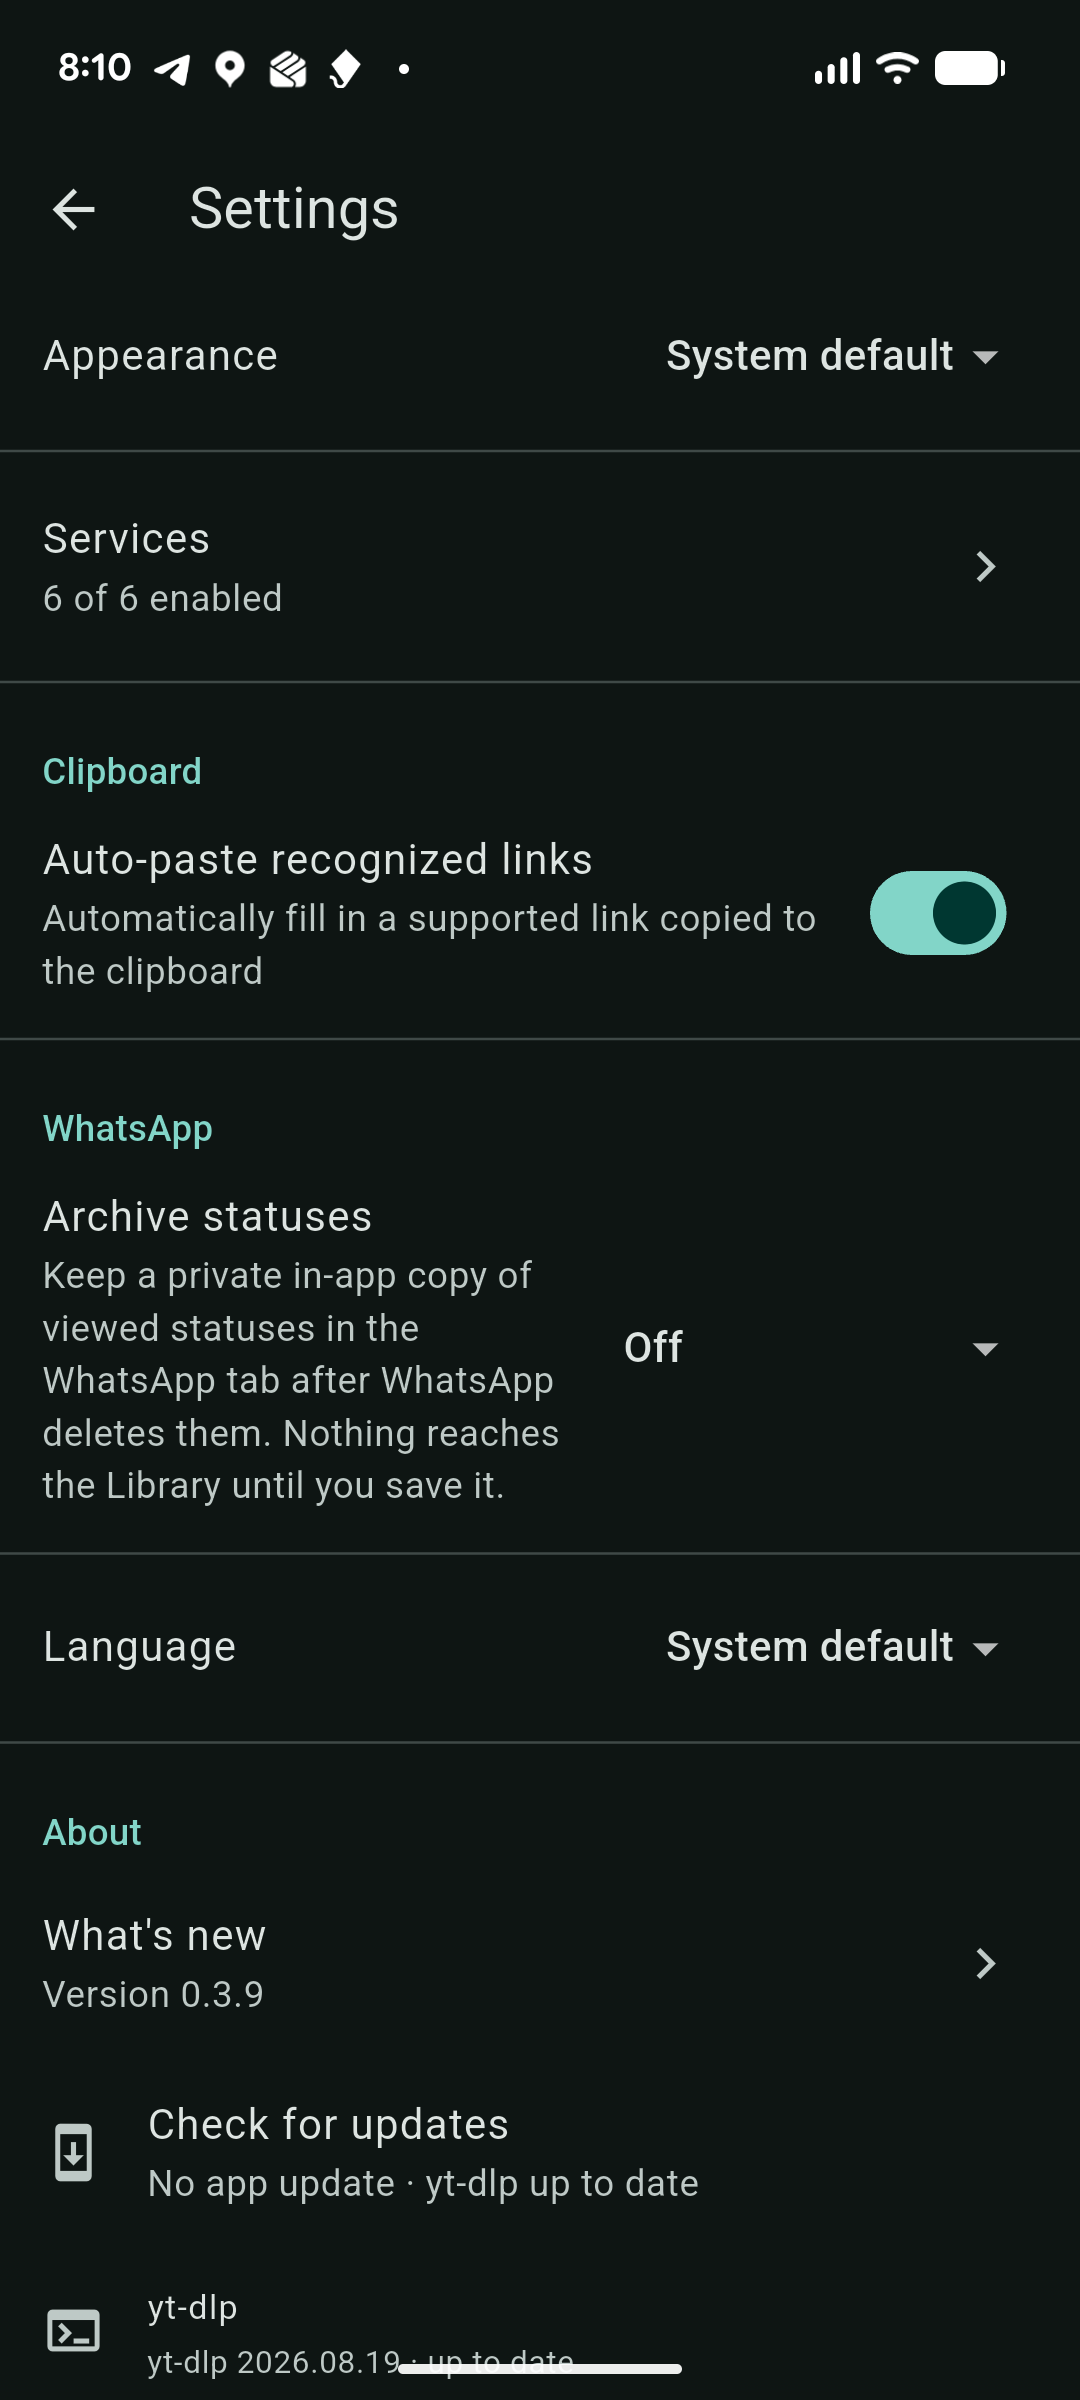
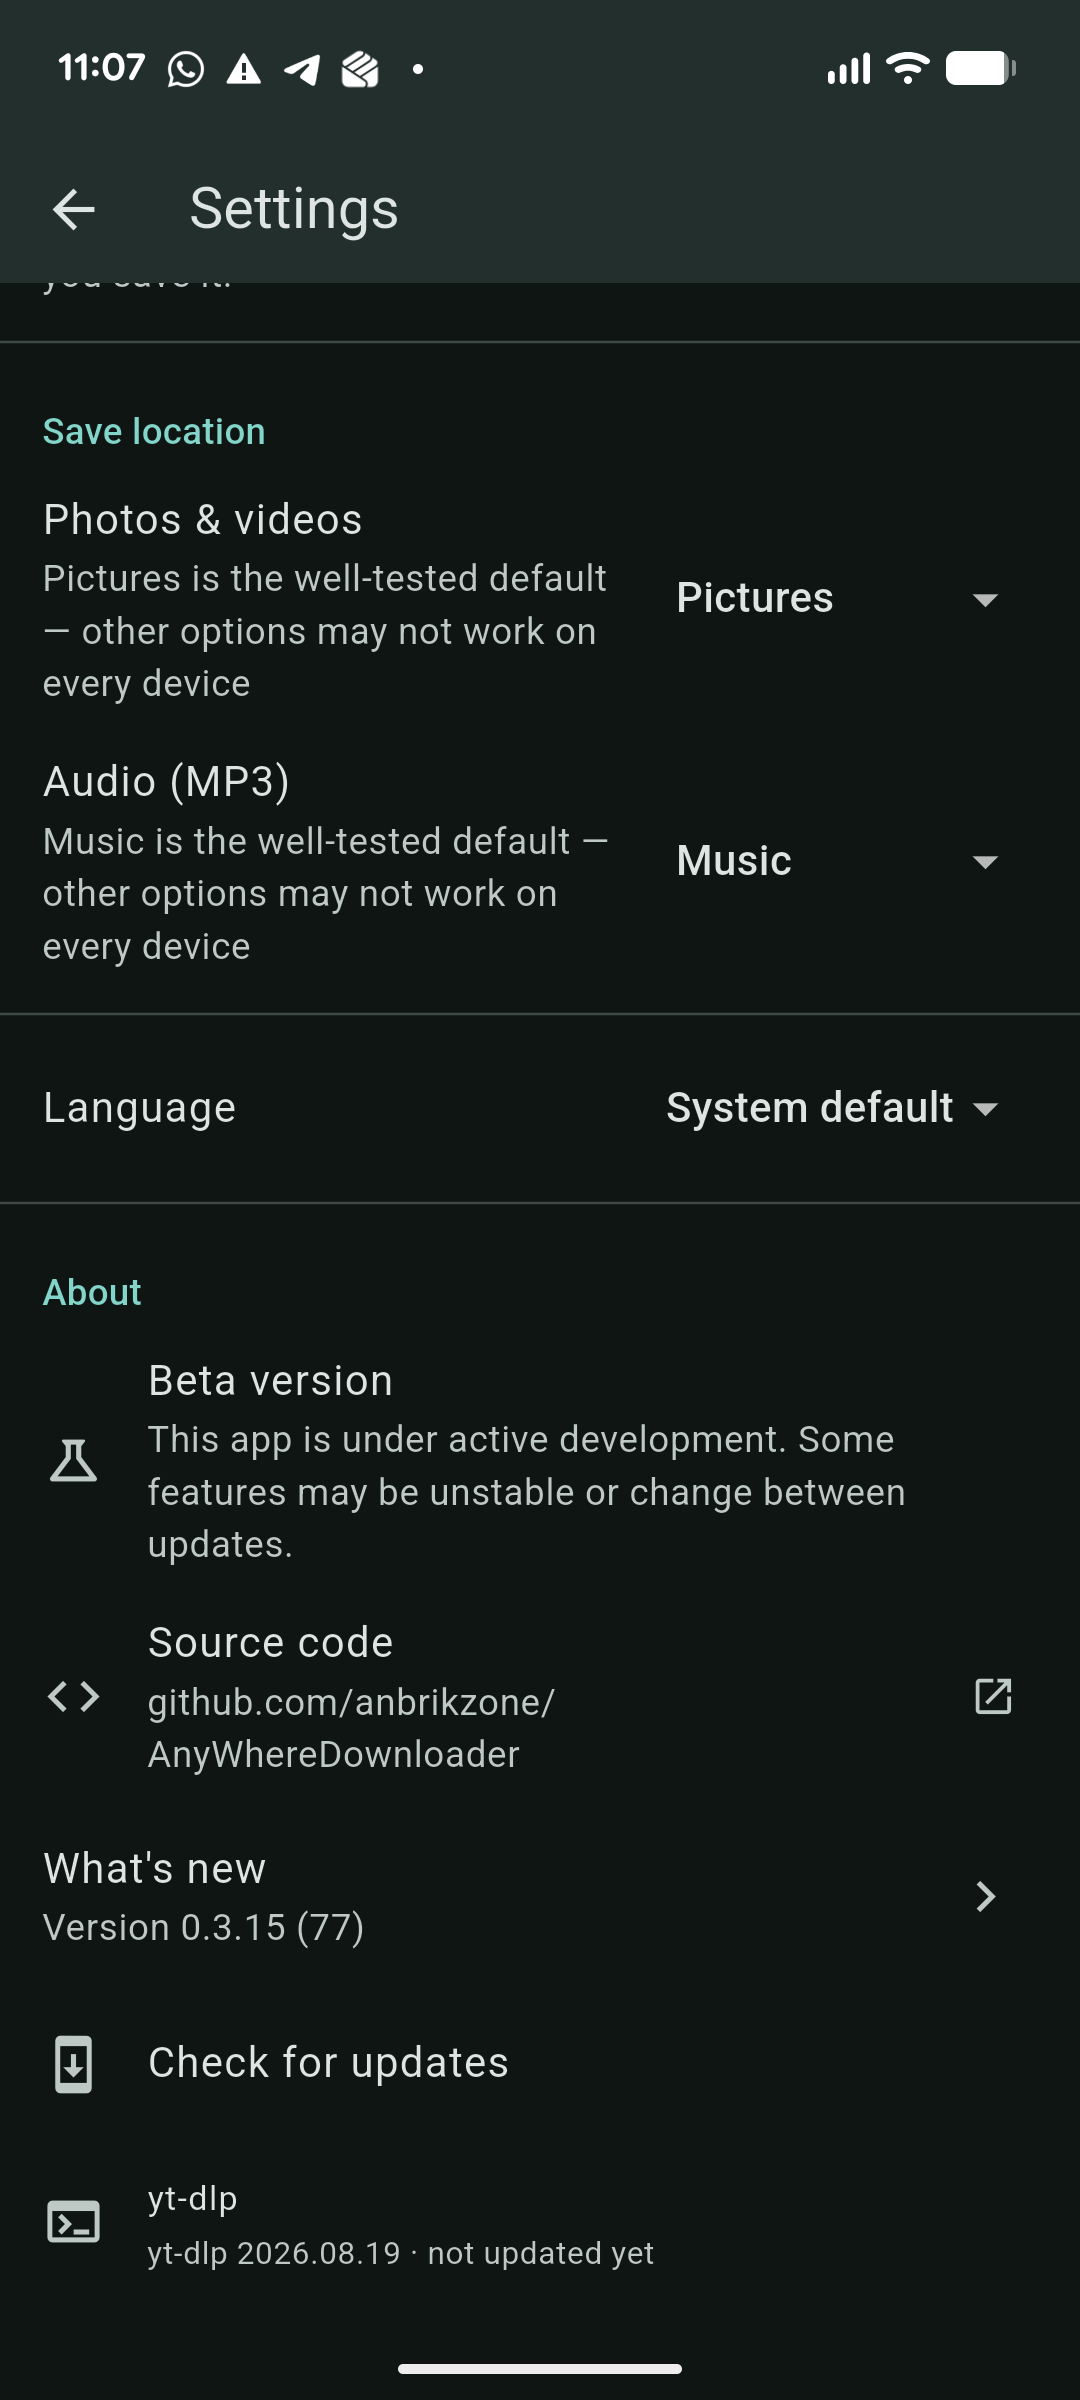
README: refresh screenshots for 0.3.15

diff --git a/README.md b/README.md
@@ -11,7 +11,7 @@ paste, share into it from another app, or that it picks up from the clipboard.
 <p>
   <img src="docs/screenshots/home.png" width="240" alt="Home screen with the paste-a-link bar and the source tiles" />
   <img src="docs/screenshots/youtube-formats.png" width="240" alt="YouTube screen showing the quality picker for a video" />
-  <img src="docs/screenshots/settings.png" width="240" alt="Settings screen with theme, services, language and update options" />
+  <img src="docs/screenshots/settings.png" width="240" alt="Settings screen with save location, language and update options" />
 </p>
 
 ## Supported sources
